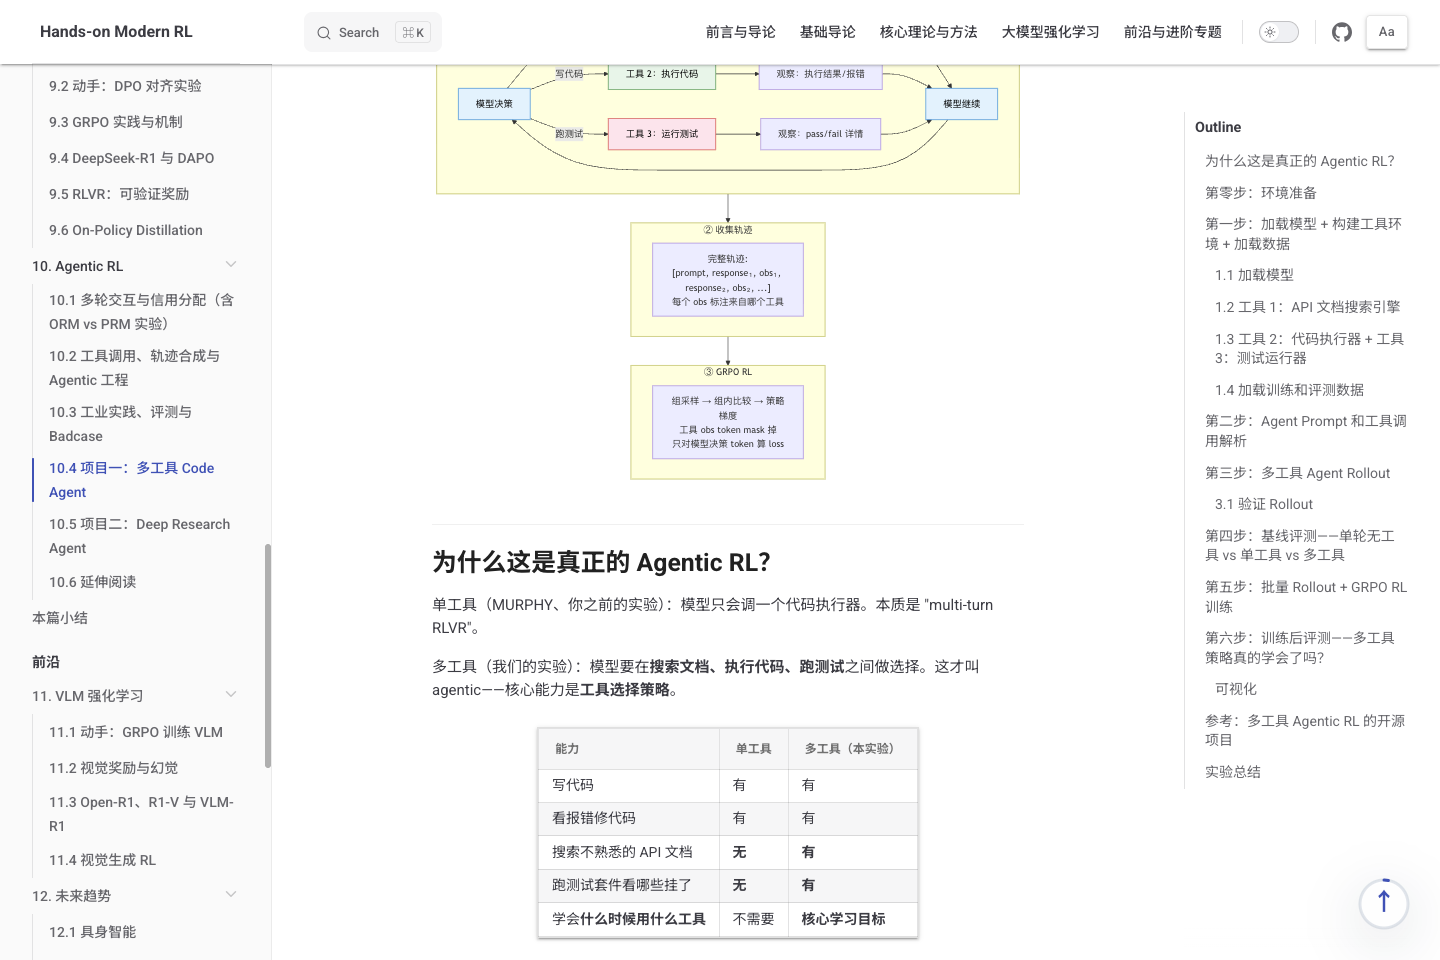
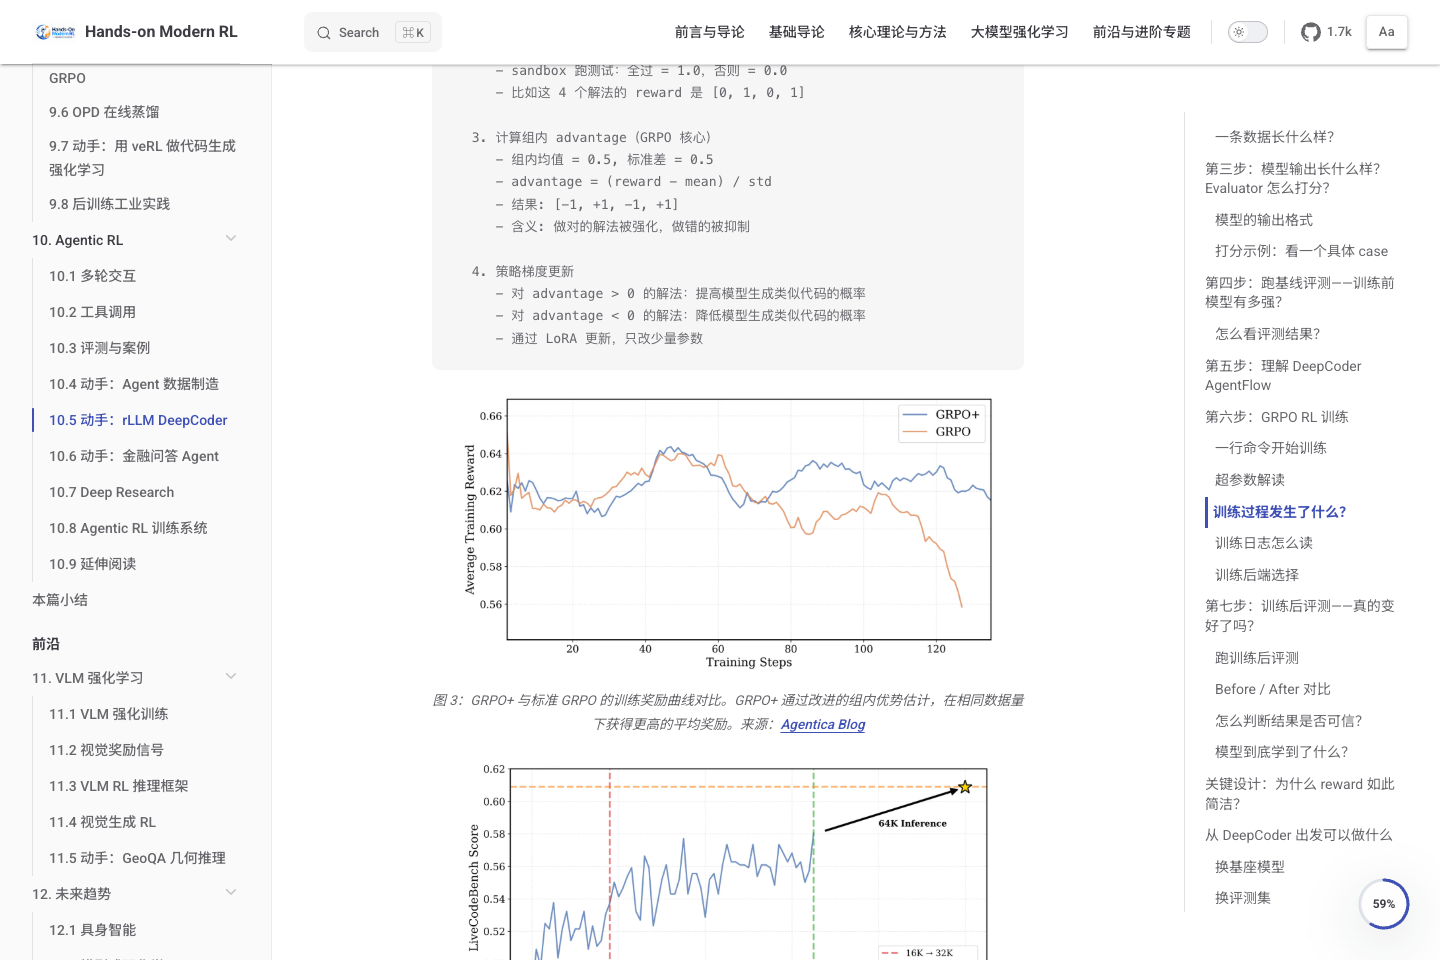
docs: update readme experiment previews

diff --git a/README.md b/README.md
@@ -70,18 +70,18 @@
   </tr>
   <tr>
     <td width="50%" align="center">
-      <img src="docs/public/readme/feature-agentic-rl.png" alt="Agentic RL project screenshot" width="100%" />
+      <img src="docs/public/readme/feature-agentic-rl.png" alt="Agentic RL experiment page screenshot" width="100%" />
       <br />
-      <strong>Project-oriented Agentic RL</strong>
+      <strong>Agentic RL experiment</strong>
       <br />
-      <sub>Tool use, trajectory synthesis, evaluation, and multi-tool code agents turn into full engineering exercises.</sub>
+      <sub>DeepCoder-style GRPO training curves connect tool-use agents, response length, and reward dynamics in a reproducible lab.</sub>
     </td>
     <td width="50%" align="center">
-      <img src="docs/public/readme/feature-vlm-rl.png" alt="VLM reinforcement learning screenshot" width="100%" />
+      <img src="docs/public/readme/feature-atari-game.png" alt="Atari Pong DQN experiment page screenshot" width="100%" />
       <br />
-      <strong>Multimodal and frontier directions</strong>
+      <strong>Atari game experiment</strong>
       <br />
-      <sub>VLM reinforcement learning, visual generation RL, embodied intelligence, and future trends extend into frontier systems.</sub>
+      <sub>Atari Pong gameplay screenshots and DQN training notes show how pixel-based agents turn screens into decisions.</sub>
     </td>
   </tr>
 </table>

diff --git a/README.zh.md b/README.zh.md
@@ -70,18 +70,18 @@
   </tr>
   <tr>
     <td width="50%" align="center">
-      <img src="docs/public/readme/feature-agentic-rl.png" alt="Agentic RL 项目截图" width="100%" />
+      <img src="docs/public/readme/feature-agentic-rl.png" alt="Agentic RL 实验页面截图" width="100%" />
       <br />
-      <strong>Agentic RL 项目化</strong>
+      <strong>Agentic RL 实验</strong>
       <br />
-      <sub>工具调用、轨迹合成、评测与多工具 Code Agent 走向完整工程练习。</sub>
+      <sub>DeepCoder 风格的 GRPO 训练曲线，把工具调用智能体、回复长度和奖励变化放进可复现实验。</sub>
     </td>
     <td width="50%" align="center">
-      <img src="docs/public/readme/feature-vlm-rl.png" alt="VLM 强化学习截图" width="100%" />
+      <img src="docs/public/readme/feature-atari-game.png" alt="Atari Pong DQN 实验页面截图" width="100%" />
       <br />
-      <strong>多模态与前沿方向</strong>
+      <strong>Atari 游戏实验</strong>
       <br />
-      <sub>VLM 强化学习、视觉生成 RL、具身智能和未来趋势延伸到前沿系统。</sub>
+      <sub>Atari Pong 游戏画面与 DQN 训练说明放在同一页，展示像素输入如何转化为动作决策。</sub>
     </td>
   </tr>
 </table>